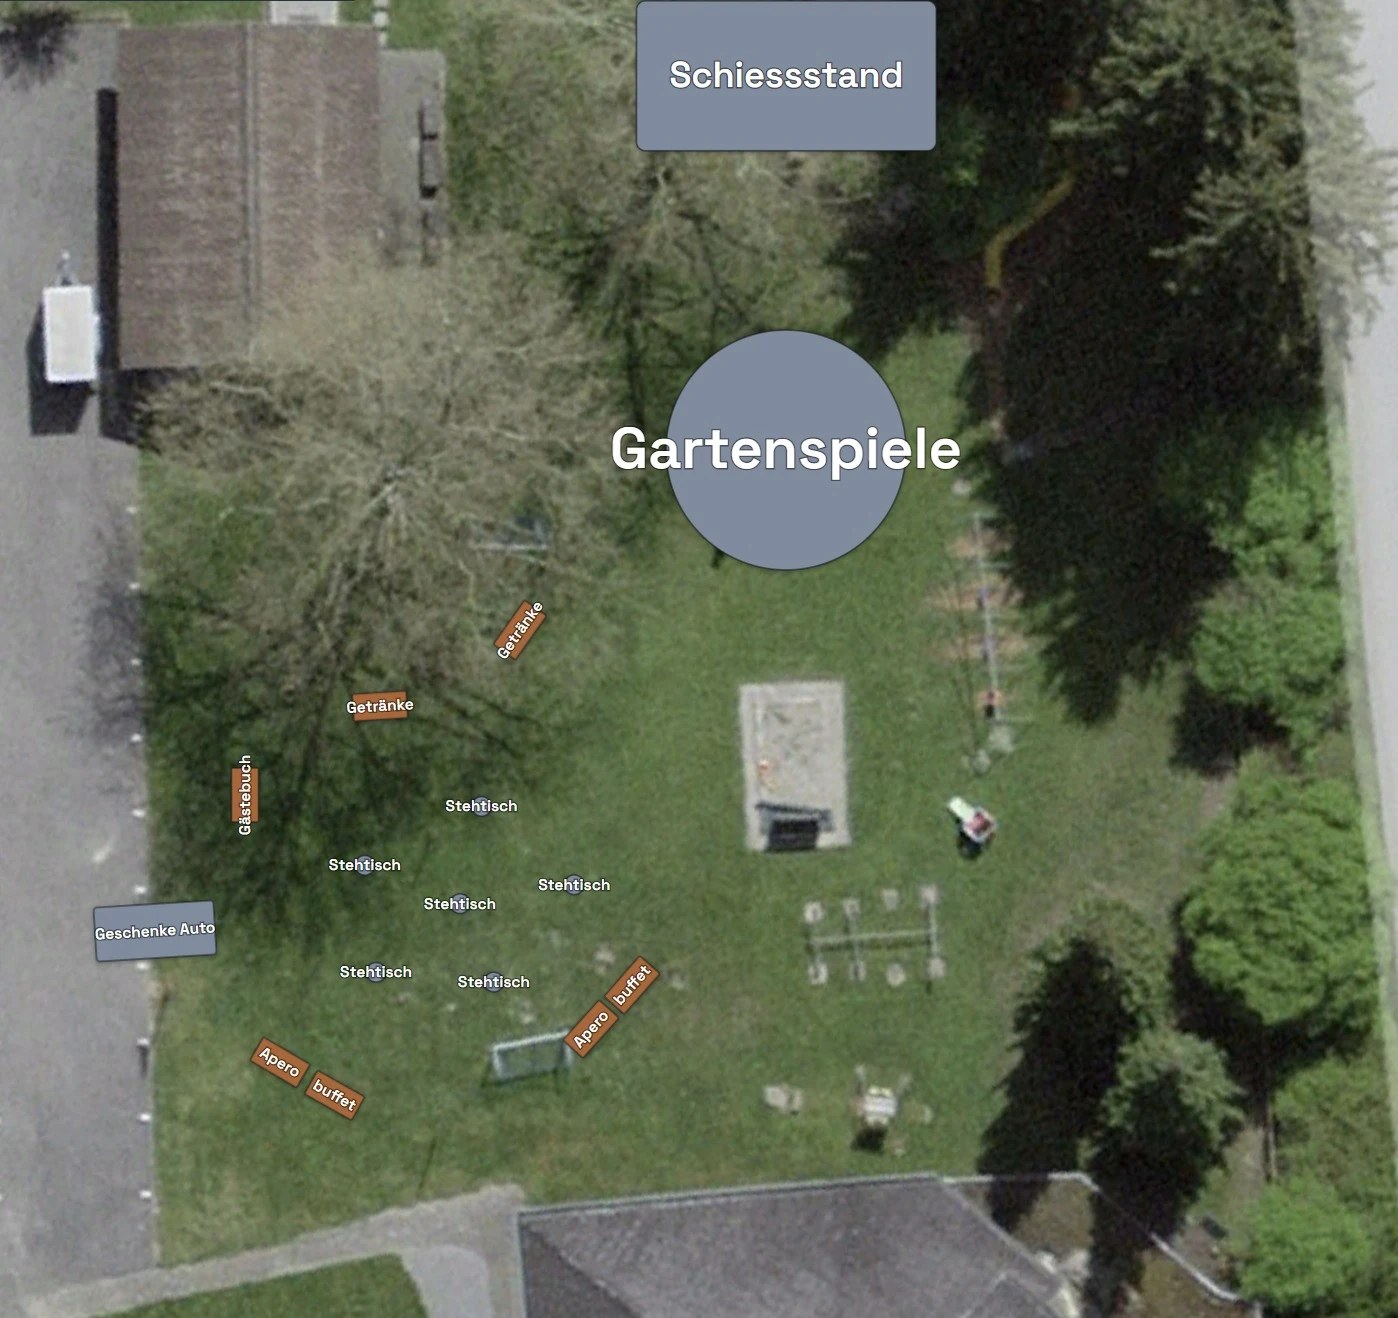
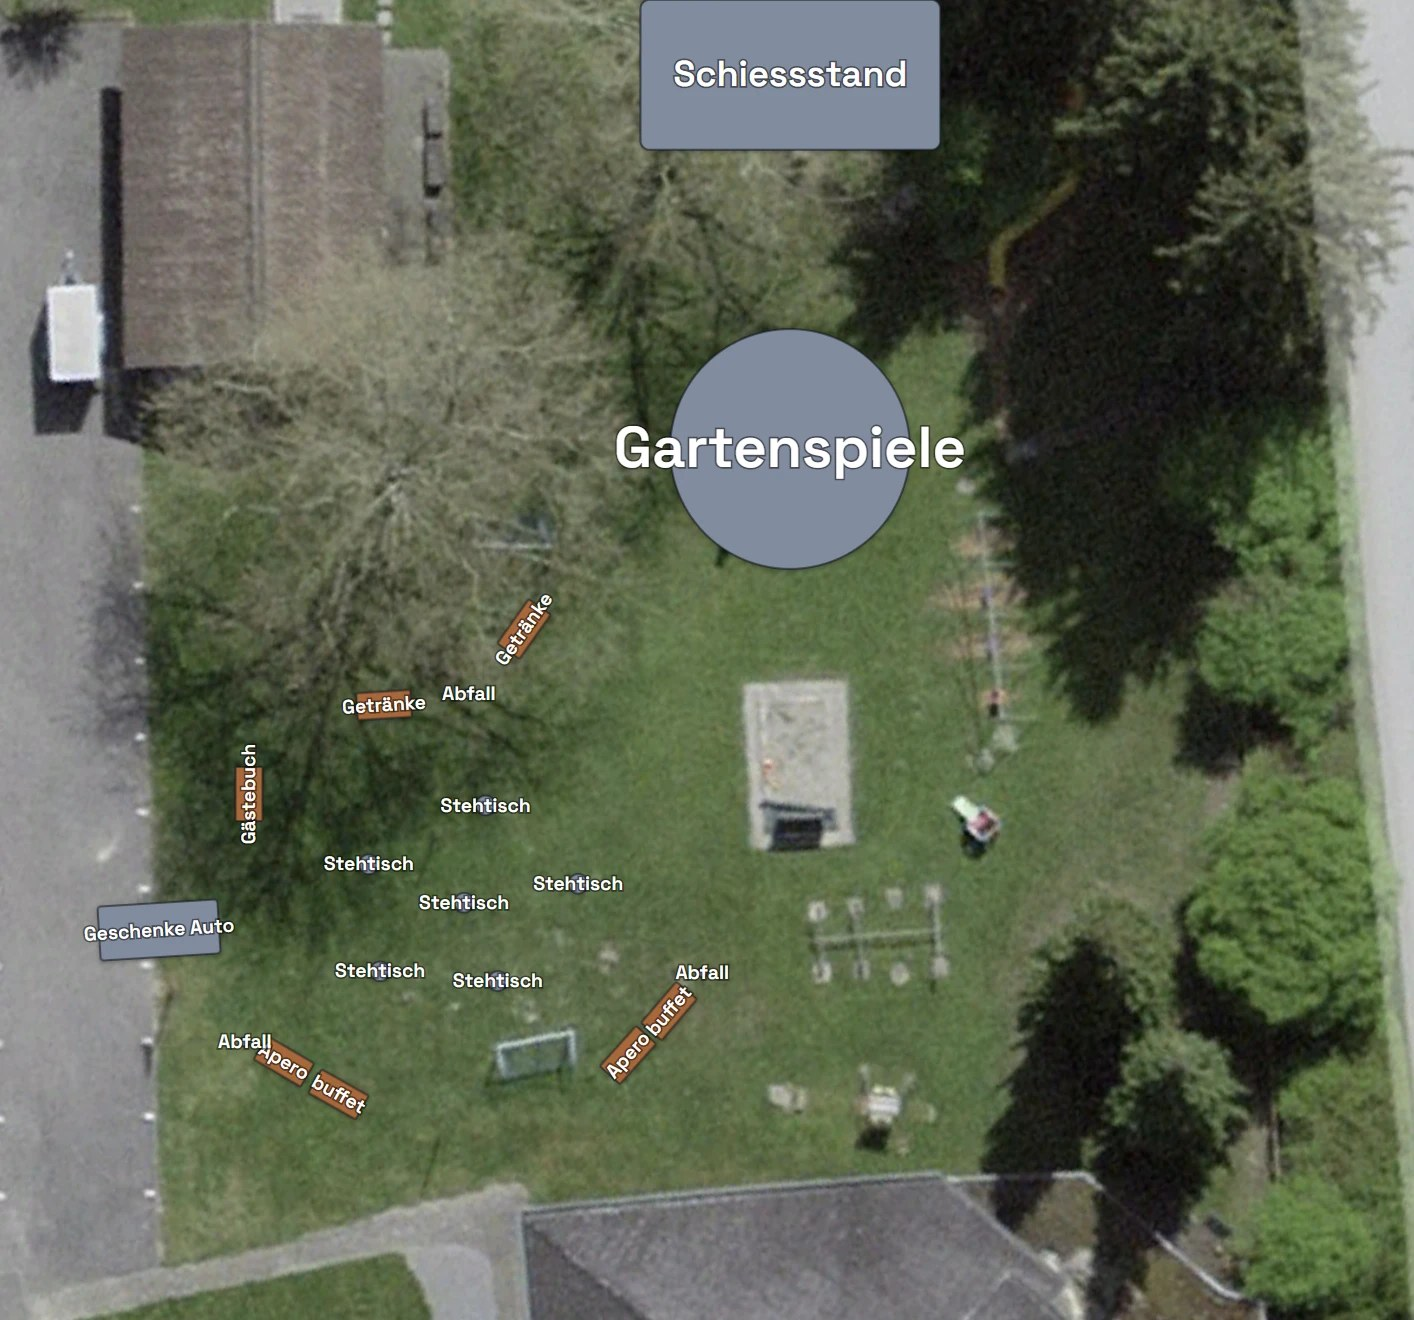
Update the Apéro site plan image
Replaces assets/apero-switzerland.jpg with the revised plan, which adds
three Abfall markers: by the drinks, by the far Apéro buffet, and by the
near one. The alt text on both languages names the bins too, so the
description still matches what is on the plan.

Claude-Session: https://claude.ai/code/session_01S3kNKp1KxUfj3EWqowMRAu

diff --git a/apero-switzerland.html b/apero-switzerland.html
@@ -75,7 +75,7 @@
     <p data-i18n="apero.desc">How the Apéro area is set up.</p>
   </div>
   <div class="chart-frame">
-    <img src="assets/apero-switzerland.jpg" alt="Site plan of the Apéro area, showing the buffet, drinks, standing tables, guest book, gift car and garden games" data-i18n-attr="alt:apero.alt" />
+    <img src="assets/apero-switzerland.jpg" alt="Site plan of the Apéro area, showing the buffet, drinks, standing tables, bins, guest book, gift car and garden games" data-i18n-attr="alt:apero.alt" />
   </div>
 </main>
 
@@ -98,7 +98,7 @@ window.I18N_PAGE = { de: {
   "apero.eyebrow": "Schweiz · Apéro",
   "apero.h1": "Apéro-Plan",
   "apero.desc": "So ist der Apéro-Bereich aufgebaut.",
-  "apero.alt": "Plan des Apéro-Bereichs mit Buffet, Getränken, Stehtischen, Gästebuch, Geschenke-Auto und Gartenspielen",
+  "apero.alt": "Plan des Apéro-Bereichs mit Buffet, Getränken, Stehtischen, Abfall, Gästebuch, Geschenke-Auto und Gartenspielen",
   "apero.footer": "Wir freuen uns auf dich!"
 } };
 </script>
